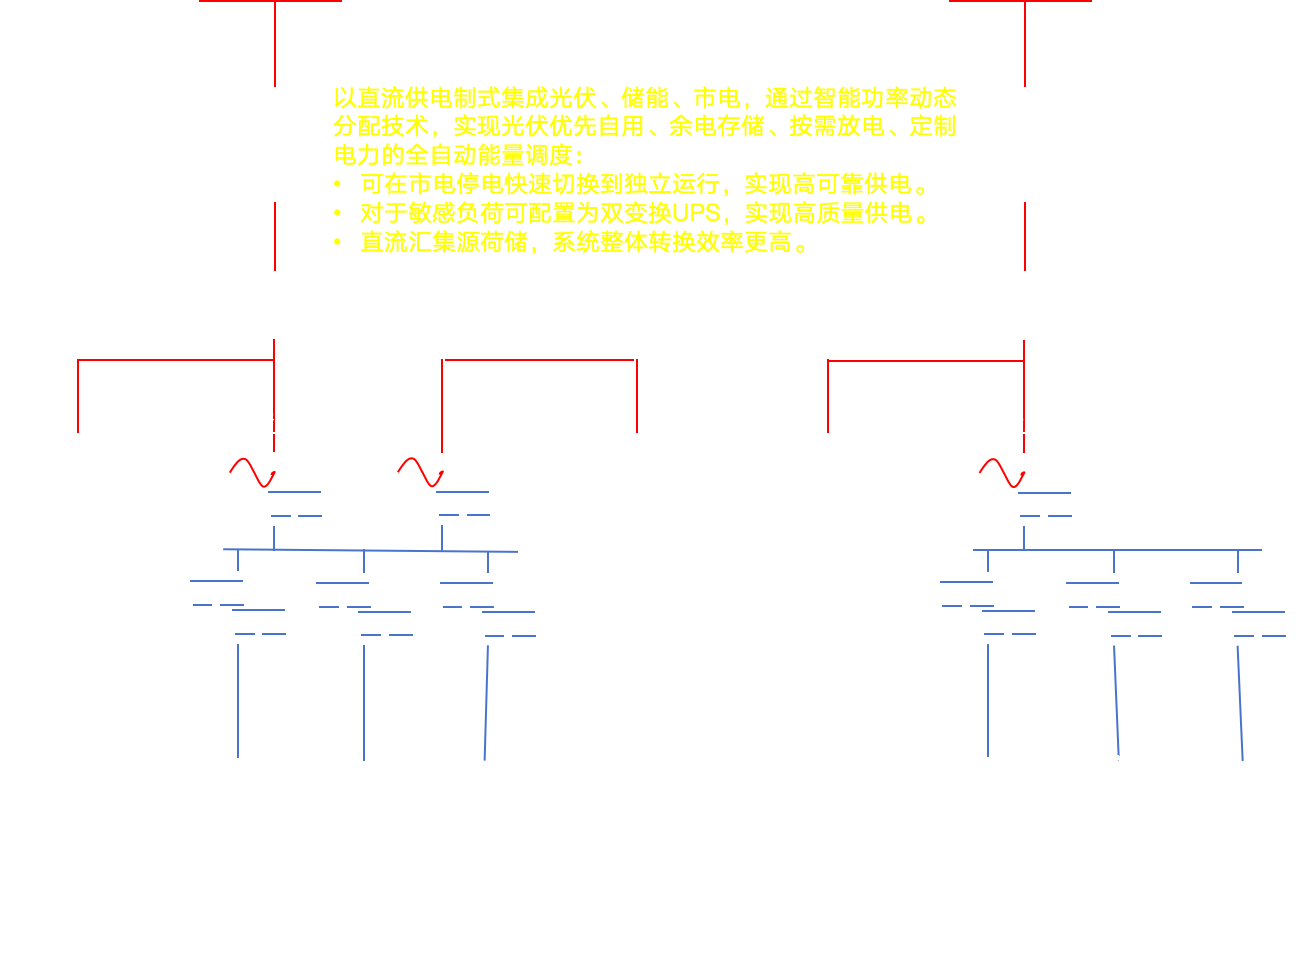
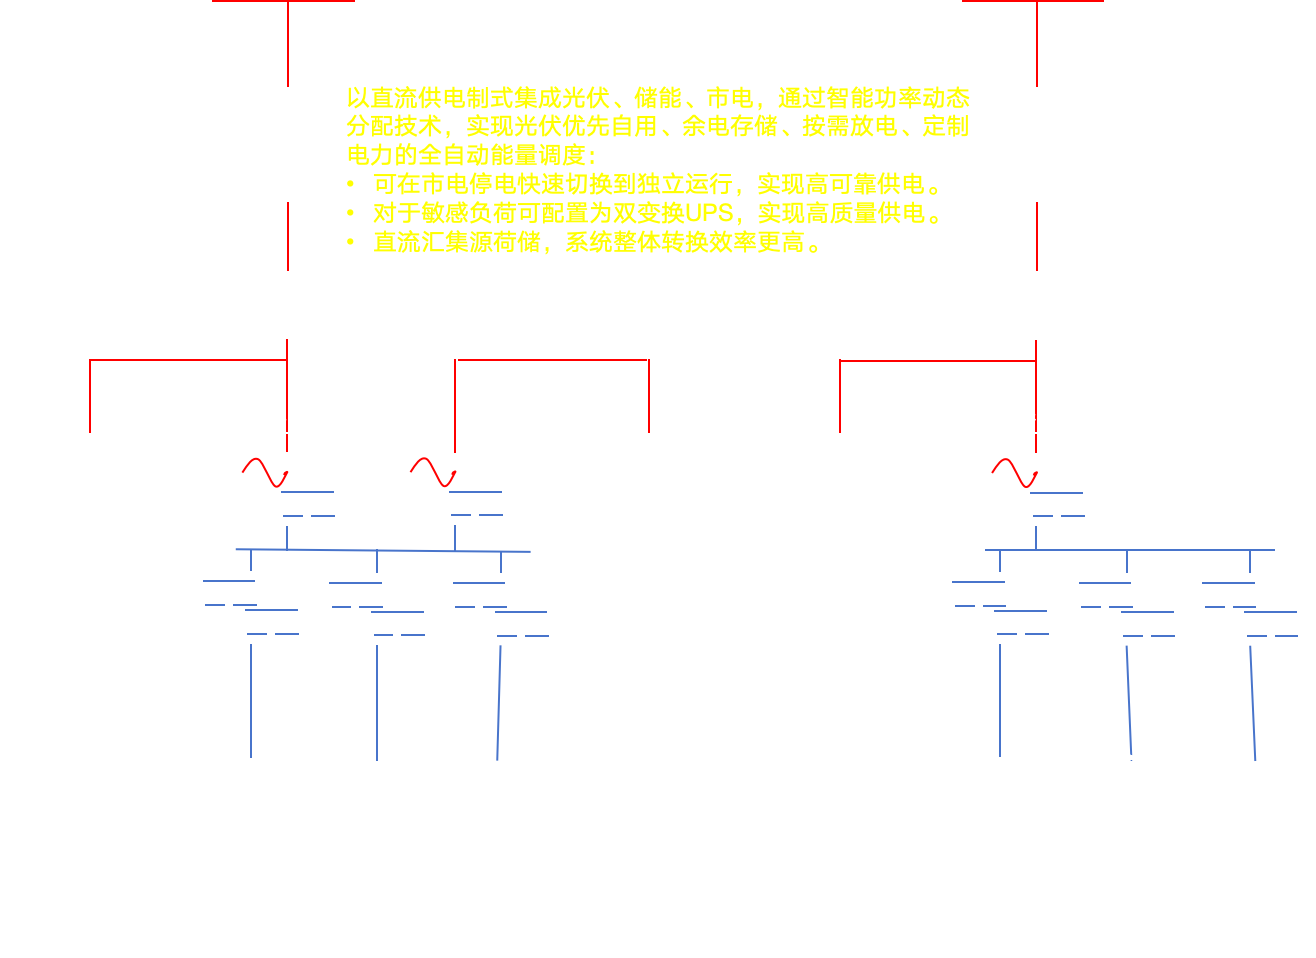
1

diff --git a/src/views/screen/data/boardView_fork.vue b/src/views/screen/data/boardView_fork.vue
@@ -20,7 +20,7 @@
         </div>
         <div class="value-content-2">
           <div class="text-32px fw-bold text-shadow-num">{{keyValue['当日用电量']}}</div>
-          <div class="fw-bold">当日用电量(kw)</div>
+          <div class="fw-bold">当日用电量(kWh)</div>
         </div>
       </div>
 
@@ -35,10 +35,10 @@
         </div>
         <div class="value-content-2">
           <div>
-            <ElButton class="w-60% max-w-120px min-w-60px" :type="((keyValue['并网状态'] as number) >> 4 & 1) === 0 ? 'primary' : 'info'">并网</ElButton>
+            <ElButton class="w-60% max-w-120px min-w-60px" :type="((keyValue['并网状态'] as number) >> 4 & 1) === 1 ? 'primary' : 'info'">并网</ElButton>
           </div>
           <div>
-            <ElButton class="w-60% max-w-120px min-w-60px mt-8px" :type="((keyValue['并网状态'] as number) >> 4 & 1) === 1 ? 'primary' : 'info'">离网</ElButton>
+            <ElButton class="w-60% max-w-120px min-w-60px mt-8px" :type="((keyValue['并网状态'] as number) >> 4 & 1) === 0 ? 'primary' : 'info'">离网</ElButton>
           </div>
         </div>
       </div>
@@ -51,7 +51,7 @@
           <div><img :src="eleIcon" class="w-44px pointer-events-none" alt="" /></div>
           <div class="ml-12px">
             <div>
-              微电网日用电量
+              微电网累计用电量
             </div>
             <div class="color-#FCFF00 text-26px">
               {{getValue('微电网日用电量', false)}}kWh
@@ -62,7 +62,7 @@
           <div><img :src="eleIcon" class="w-44px pointer-events-none" alt="" /></div>
           <div class="ml-12px">
             <div>
-              微电网日发电量
+              微电网累计发电量
             </div>
             <div class="color-#FCFF00 text-26px">
               {{getValue('微电网日发电量', false)}}kWh
@@ -77,7 +77,14 @@
         </div>
       </div>
 
-      <card-header title="光伏" />
+      <div class="flex gap-8px items-end mb-12px">
+        <div class="flex-1">
+          <card-header title="光伏" hide-action />
+        </div>
+        <div class="flex-1">
+          <card-header title="风电" />
+        </div>
+      </div>
       <div class="flex gap-8px pt-4px">
         <div class="flex-1">
           <div class="flex gap-8px mb-8px" v-for="item in solarList" :key="item.id">
@@ -112,7 +119,7 @@
 
     </div>
     <div class="w-23.5% pr-20px">
-      <CardHeader title="电池" />
+      <CardHeader title="储能" />
       <div class="flex flex-wrap shadow-bg !pt-40px battery-list">
         <div v-for="item in batteryInfo" class="w-50%" :key="item.key">
           <div class=" flex items-center mb-16px pl-10px battery-item">
@@ -135,7 +142,7 @@
               <img :src="icon8" class="w-44px" alt="" />
             </div>
             <div>
-              <div class="color-#fff font-size-[15px]">节电量：</div>
+              <div class="color-#fff font-size-[15px]">累计减少电网电量：</div>
               <div class="font-size-24px font-600 color-#FCFF00">{{getValue(`节电量`, true)}}kWh</div>
             </div>
           </div>
@@ -145,7 +152,7 @@
             </div>
             <div>
               <div class="color-#fff font-size-[15px]">减碳量：</div>
-              <div class="font-size-24px font-600 color-#FCFF00">{{getValue(`减碳量`, true)}}kg</div>
+              <div class="font-size-24px font-600 color-#FCFF00">{{getValue(`减碳量`, true)}}t</div>
 
             </div>
           </div>
@@ -155,13 +162,13 @@
             </div>
             <div>
               <div class="color-#fff font-size-[15px]">节省金额：</div>
-              <div class="font-size-24px font-600 color-#FCFF00">{{getValue(`节省金额`, true)}}元</div>
+              <div class="font-size-24px font-600 color-#FCFF00">{{getValue(`节省金额`, true)}}万元</div>
 
             </div>
           </div>
         </nav>
 
-        <div class="flex-1 pl-30px">
+        <div class="flex-1 pl-38px">
           <PieBattery
             :data="useTotalRef"
             class="h-11vw"
@@ -217,26 +224,26 @@ const keyValue = ref<Record<string, string | number>>({});
 
 // 静态数据定义
 const staticData = {
-  '用电功率': 1250,
-  '当日用电量': 1644.8,
+  '用电功率': 372,
+  '当日用电量': 5600.4,
   '电网功率': 800,
   '并网状态': 16, // 二进制位控制按钮状态
-  '微电网日用电量': 3947.6,
-  '微电网日发电量': 1315.8,
+  '微电网日用电量':588000.1,
+  '微电网日发电量': 128590.1,
   // 光伏展示重定义
-  '当日发电量-1': 8025,
-  '累计发电量-1': 40125,
-  '发电功率-1': 920,
-  '装机功率-1': 1350,
-  '风电累计发电量-2': 7828,
-  '风电当日发电量-2': 4800,
-  '发电功率值': 800,
+  '当日发电量-1': 8900,
+  '累计发电量-1': 78540,
+  '发电功率-1': 400,
+  '装机功率-1': 3740,
+  '累计发电量-2': 50050,
+  '当日发电量-2': 25,
+  '发电功率值': 0,
   '装机容量值': 1100,
   '七日用电量': 19800,
-  '电池电量': 75,
-  '充放电次数': 12,
-  '装机功率':600,
-  '装机电量': 1.2,
+  '电池电量': 95,
+  '充放电次数': 2,
+  '装机功率':2,
+  '装机电量': 8,
   '单体温度最大值': 27,
   '单体温度最小值': 28,
   '节电量': 2368.2 ,
@@ -297,11 +304,11 @@ const useTotalRef = computed(() => {
     dimensions: ['label', 'value'],
     source: [
       {
-        label: '电池剩余电量',
-        value: getValue('电池电量', false) || 0,
+        label: '新能源电量',
+        value: 22,
       }, {
-        label: '电池已放电量',
-        value: 100 - ((getValue('电池电量', false) as number) || 0),
+        label: '电网电量',
+        value: 100 - 22,
       }
     ],
   }
@@ -311,11 +318,11 @@ const getterTotalRef = computed(() => {
     dimensions: ['label', 'value'],
     source: [
       {
-        label: '光伏1',
-        value: getValue('光伏1发电量', false) || 0,
+        label: '光伏',
+        value: 61,
       }, {
-        label: '光伏2',
-        value: getValue('光伏2发电量', false) || 0,
+        label: '风电',
+        value: 39,
       }
     ],
   }
@@ -332,7 +339,7 @@ onMounted(() => {
   dynamicTimer = setInterval(() => {
     const kv = keyValue.value;
     if (!kv) return;
-    kv['用电功率'] = randomInRange(150, 190);
+    kv['用电功率'] = randomInRange(346, 380);
     kv['电网功率'] = randomInRange(50, 80);
   }, 2000);
 })
@@ -522,9 +529,9 @@ const solarTypes = [{
   value: 'fdl12',
   label: '发电量',
   unit: 'kWh',
-  gf1: '风电累计发电量-2',
-  gf2: '风电当日发电量-2',
-  getLabel: (item: any) => (item.id === '1' ? '风电累计发电量' : '风电当日发电量'),
+  gf1: '累计发电量-2',
+  gf2: '当日发电量-2',
+  getLabel: (item: any) => (item.id === '1' ? '累计发电量' : '当日发电量'),
   icon: icon3,
   iconCls: 'w-36px',
   cls: 'bg-icon-success'
@@ -570,7 +577,7 @@ const batteryInfo = [
   {
     label: '装机功率',
     key: '3',
-    unit: 'kW',
+    unit: 'MW',
     valKey:  '装机功率',
     icon: tdIcon3,
     iconWidth: 27,
@@ -580,7 +587,7 @@ const batteryInfo = [
     key: '6',
     valKey:  '装机电量',
     icon: tdIcon3,
-    unit: 'kWh',
+    unit: 'MWh',
     iconWidth: 27,
   },
   {
@@ -641,6 +648,20 @@ const batteryInfo = [
 .real-price{
   box-sizing: border-box;
   height: 12vw;
+}
+.card-screen-header{
+  position: relative;
+  padding: 10px 0;
+  margin-bottom: 12px;
+  &:before{
+    content: '';
+    position: absolute;
+    height: 2px;
+    left: 0;
+    width: 32px;
+    bottom: -1px;
+    background-color: #29F0F1;
+  }
 }
 .border-total{
   background: url("@/views/screen/assets/lineBg.png") no-repeat top center;

diff --git a/src/views/screen/components/CardHeader.vue b/src/views/screen/components/CardHeader.vue
@@ -6,9 +6,10 @@ import arrow3 from '@/views/screen/assets/real/arrow-3.png';
 defineOptions({
   name: 'CardHeader',
 })
-const { title } = defineProps<{
+const { title, hideAction } = defineProps<{
   title: string;
   size?: 'small' | 'default';
+  hideAction?: true;
 }>()
 </script>
 
@@ -18,7 +19,7 @@ const { title } = defineProps<{
       <h3 class="text-18px mb-0 mt-0">{{title}}</h3>
     </slot>
 
-    <div class="action">
+    <div class="action" v-if="!hideAction">
       <img :src="arrow1" class="w-16px" alt="" />
       <img :src="arrow2" class="w-16px" alt="" />
       <img :src="arrow3" class="w-16px" alt="" />

diff --git a/src/views/screen/data/realtime_fork.vue b/src/views/screen/data/realtime_fork.vue
@@ -14,7 +14,7 @@ const carbonStats = ref({
   newEnergyGeneration: 19800, // kWh
   carbonReduction: 10.625, // 吨
   equivalentTrees: 664, // 颗
-  carbonCredits: 19.8 // 个
+  carbonCredits: 19 // 个
 })
 
 // 建筑能耗排名数据
